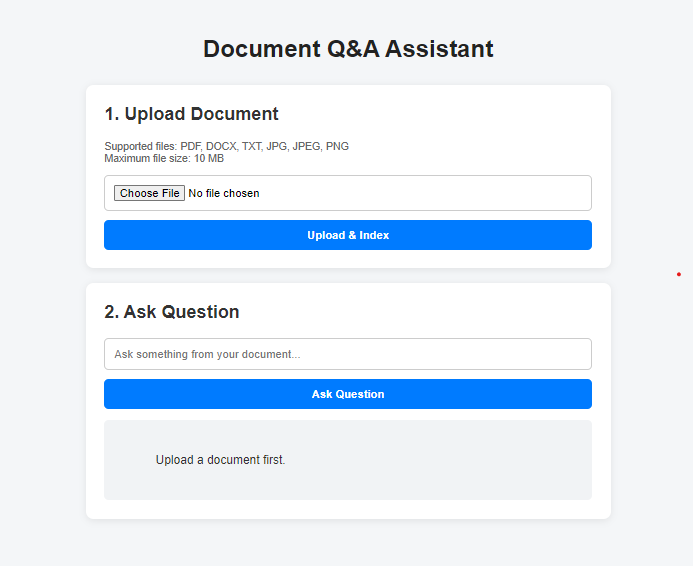
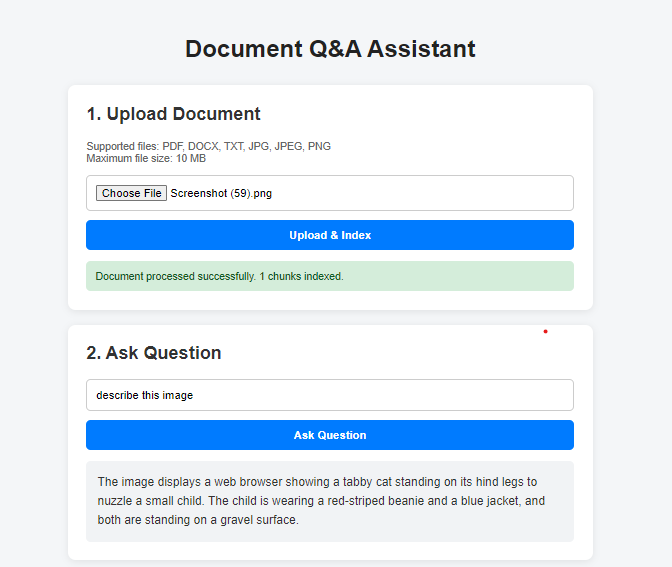
add ...

diff --git a/README.md b/README.md
@@ -196,3 +196,10 @@ AI & ML | Python | NLP | RAG | Flask | Full-Stack AI Applications
 ---
 
 ⭐ **If you like this project, consider giving it a star!**
+
+
+![alt text](image.png)
+
+![alt text](image-1.png)
+
+![alt text](image-2.png)
